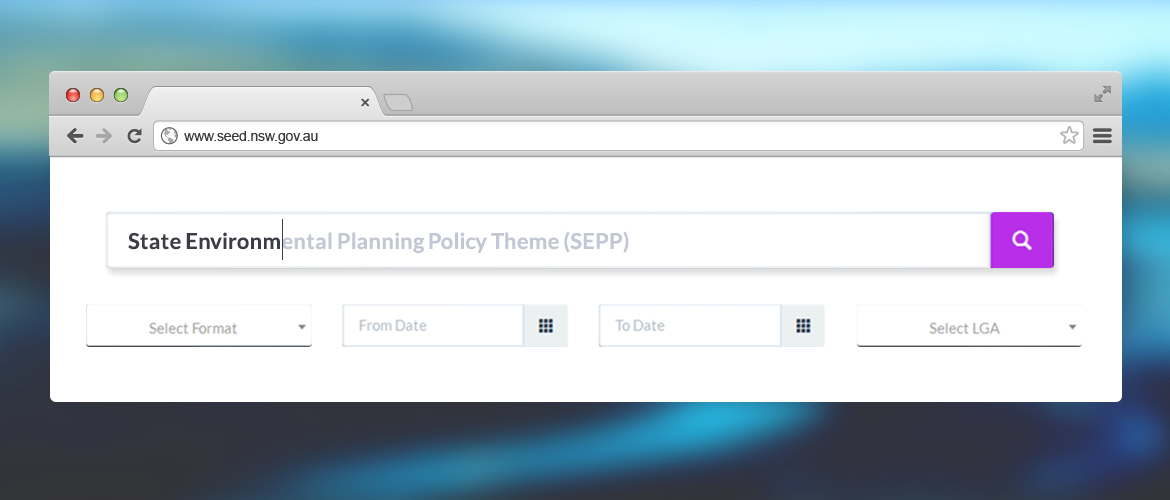
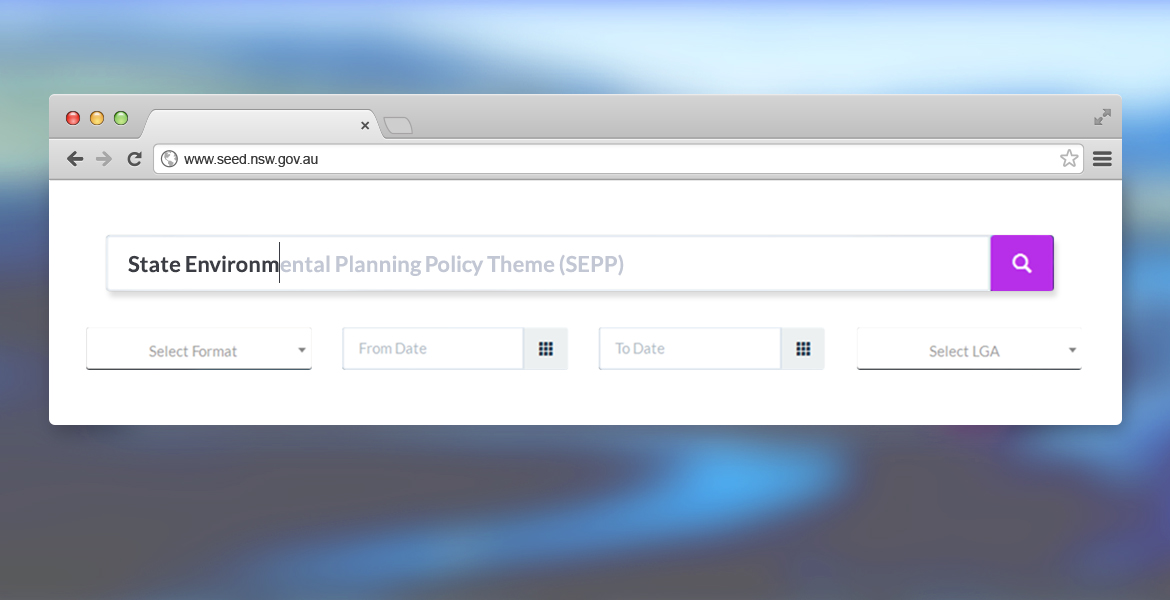
projects

diff --git a/portfolio/projects.html b/portfolio/projects.html
@@ -122,7 +122,7 @@
 	                    		<div class="overlay" style=""></div>
 	                    		<!-- <div class="img-squared" style="background-image:url('img/projects-seed-sq2.jpg'); padding-top:66.7%;">	
 	                    		</div> -->
-	                    		<div class="img-squared" style="background-image:url('img/projects-seed-search2.jpg'); padding-top:42.73%">	
+	                    		<div class="img-squared" style="background-image:url('img/projects-seed-search2.jpg'); padding-top:51.28%">	
 	                    		</div>
 	                    		<div class="thumbnail-overlay" style="">
 		                    	</div>	
